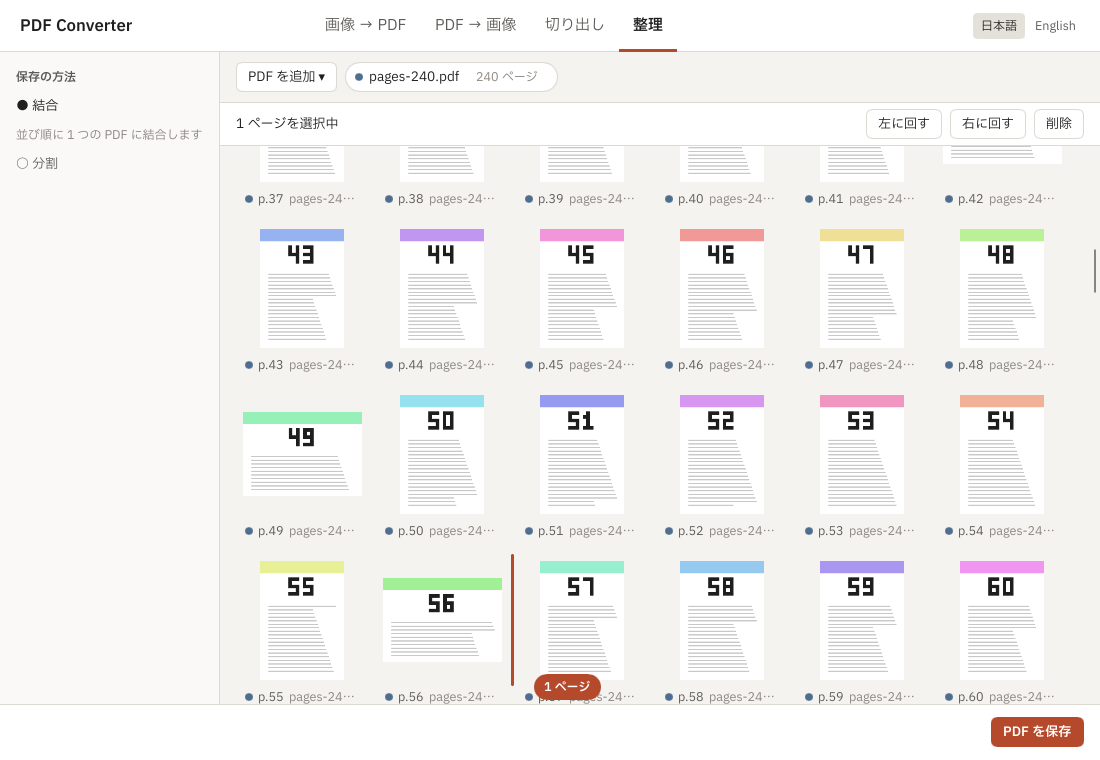
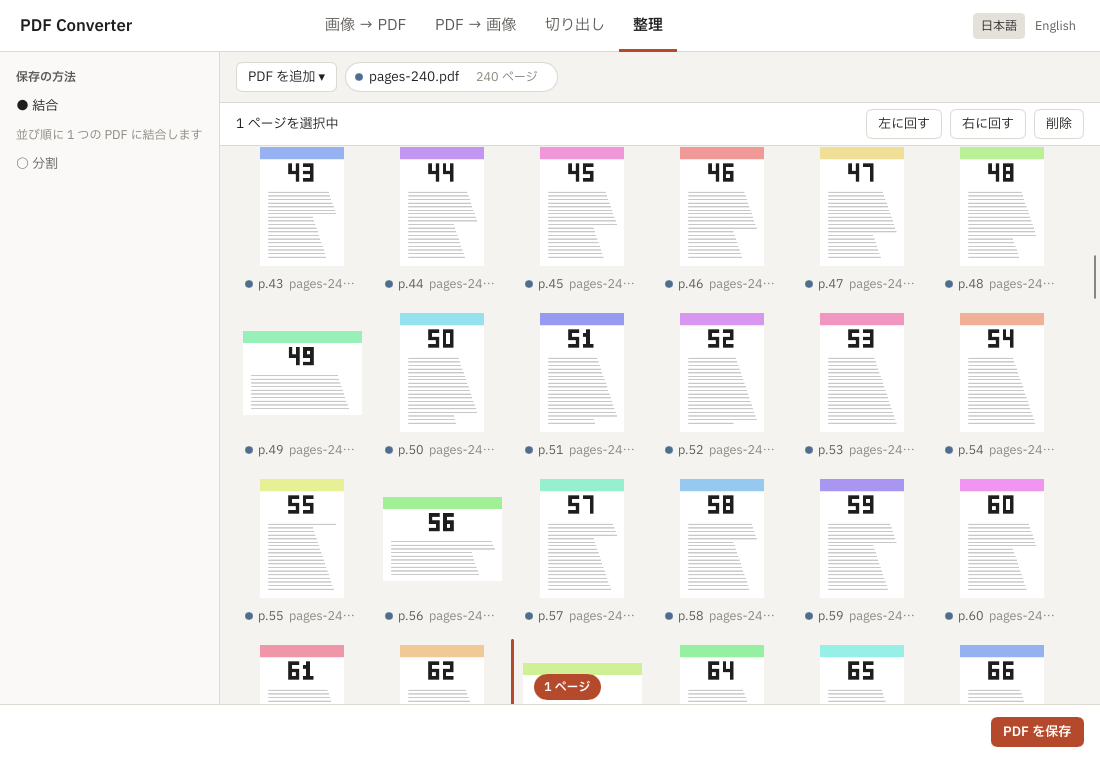
slint-spike: file dialogs and OS file drops
DropArea still cannot receive files from the OS in 1.18.1: its DragMove/Drop
events are only synthesized for an in-app DragArea, and neither the public
WindowEvent nor the winit backend carries external drags, so drops come
from winit's DroppedFile through unstable-winit-030 as in October. Dialogs
use rfd's async API so the event loop keeps running; on the portal-less
cloud machine the dialog returns None without blocking.

Claude-Session: https://claude.ai/code/session_015L2F8FeXKnfRM5X2V7nUWQ

diff --git a/slint-spike/src/scenario.rs b/slint-spike/src/scenario.rs
@@ -310,6 +310,26 @@ pub fn run(ctx: Rc<Ctx>, dir: PathBuf) {
         sleep(200).await;
         d.shot("11-dark");
 
+        // The overlay shown while the OS drags a file over the window
+        // (winit's HoveredFile; set directly since Xvfb has no drag source).
+        app.global::<crate::T>().set_force_dark(false);
+        let _ = slint::select_bundled_translation("ja");
+        app.set_language("ja".into());
+        app.set_file_hover(true);
+        sleep(200).await;
+        d.shot("12-file-hover");
+        app.set_file_hover(false);
+
+        // The file dialog: on this machine there is no XDG desktop portal, so
+        // rfd must give up without blocking the event loop.
+        let t = Instant::now();
+        app.invoke_add_pdfs();
+        sleep(1500).await;
+        println!(
+            "add-pdfs dialog: event loop still running after {} ms",
+            t.elapsed().as_millis()
+        );
+
         // Save the current order and read it back.
         let out = d.dir.join("../target/organized.pdf");
         let expected: Vec<u32> = d.order(usize::MAX);

diff --git a/slint-spike/REPORT.md b/slint-spike/REPORT.md
@@ -116,7 +116,28 @@ cargo run -- samples/pages-240.pdf
 
 ## 3. OS とのつなぎ
 
-（未記入）
+### ファイルのダイアログ — 判定: そのままできる
+
+- 作り: [`src/main.rs`](src/main.rs) の `on_add_pdfs` / `on_save`（各 15 行ほど）。`rfd` 0.15.4 の `AsyncFileDialog` を `slint::spawn_local` の中で `await` する。`set_parent(&app.window().window_handle())`（slint の `raw-window-handle-06` 機能）で、ダイアログを窓の子にする。
+- 開く: PDF の絞り込みで複数を選ぶ → 選んだ道を Rust がそのまま worker の `Open` に渡す。保存: 初期のファイル名を付けて保存先を選ぶ → 項目 5 の `Organize` で書き出す。
+- 同期の `FileDialog` でも動くが、ダイアログの間イベントループが止まるので非同期の版にした。Windows の `rfd` は IFileDialog を別のスレッドで開く。
+- Linux の `rfd` の既定は XDG デスクトップポータル（D-Bus）。このクラウドにはポータルがなく、ダイアログは出ずに `None` が返った。イベントループは止まらなかった（台本のログ「add-pdfs dialog: event loop still running」）。Linux で GTK のダイアログが要るなら `rfd` の `gtk3` 機能に替える（GTK の開発用ファイルが要る）。
+- 今のアプリの決まり「道はダイアログと D&D からだけ Rust に入る」（design §1, §6.1）は、IPC がなくなるので自然に守られる。
+
+### OS からのファイルの D&D — 判定: 工夫すればできる（2026-10-16 から変わらず）
+
+- **最新の 1.18.1 でも `DropArea` は OS からのファイルを受けない。** 確かめた所:
+  - `DragArea` / `DropArea` は 1.18 で入った（slint-ui/slint#11400 "Implement in-process drag-and-drop using a design that can be extended for cross-application support"）。名前のとおり**同じアプリの中**の D&D で、`DropArea` に届く `MouseEvent::DragMove` / `Drop` は、`DragArea` からのドラッグのときにだけ Slint の中で作られる（`i-slint-core-1.18.1/items/drag_n_drop.rs`）。
+  - 外から入る口もない: 公開の `slint::platform::WindowEvent` にドラッグの種類はなく、内部の `InternalEvent` もマウス・キー・タッチだけ（`i-slint-core-1.18.1/platform.rs`）。winit のバックエンドは `WindowEvent::DroppedFile` / `HoveredFile` を扱っていない（`i-slint-backend-winit-1.18.1` に `DroppedFile` の文字列がない）。
+- そこで前回と同じく、winit の窓のイベントを直接受ける（`slint::winit_030::WinitWindowAccessor::on_winit_window_event`、`unstable-winit-030` 機能）。`HoveredFile` で「PDF をドロップ」の覆いを出し、`HoveredFileCancelled` で消し、`DroppedFile(path)` で、ダイアログと同じ `add_paths` に渡す。[`src/main.rs`](src/main.rs) の 25 行ほど。覆いの見た目は画像 12。
+- 工夫が要る点・危ない点:
+  - `unstable-winit-030` は名前のとおり安定版の約束の外。Slint の版を上げると変わりうる。winit の版も Slint が決める（1.18.1 は winit 0.30.13）。
+  - winit 0.30 の `DroppedFile` には**位置がない**（ファイルごとに道だけが届く）。「格子の、落とした位置に差し込む」はできない。今のアプリも整理では末尾に足す（organize §4）ので困らないが、位置で振り分ける画面を作るなら別の手（OS の API を直接）が要る。
+  - フォルダを落とすと、フォルダの道が 1 つ届く。中の PDF を集めるのは自分で書く（今の `items.rs` と同じ）。試作では `.pdf` 以外を無視しただけ。
+  - 開いたままの issue に slint-ui/slint#12437 "Crash when dragging file onto winit window." がある（題だけ読んだ。中身は確かめていない）。Windows で必ず試してほしい。
+  - 画面なしの Xvfb には D&D の送り手がないので、`DroppedFile` の道筋はここでは動かしていない（`add_paths` から先は台本で通っている）。
+
+![ドロップの覆い](screenshots/12-file-hover.png)
 
 ## 4. アクセシビリティ
 
